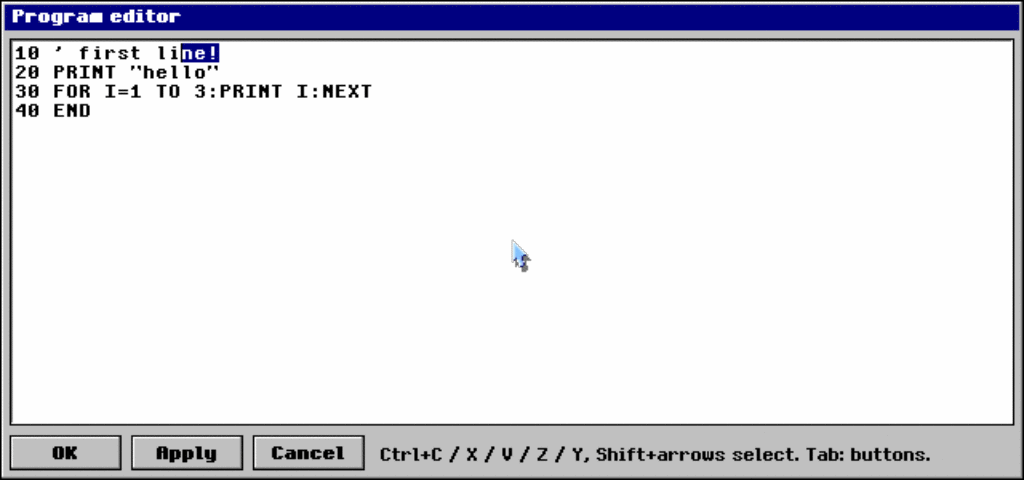
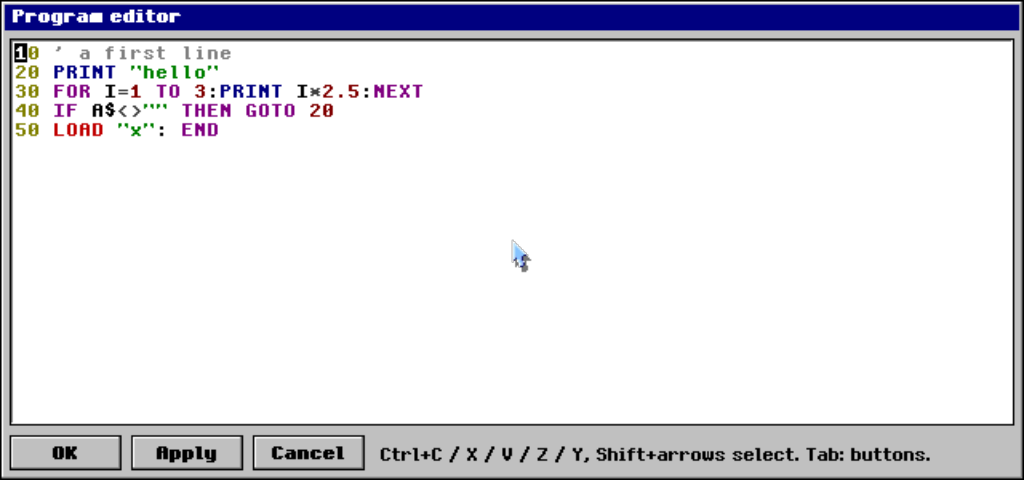
Notepad demo fix, and updated screenshots, by Claude Code

Changed region(s): [[0.0, 0.0625, 0.4062, 0.2812]]

diff --git a/synhltest1.c b/synhltest1.c
@@ -137,6 +137,9 @@ static void file( const char* path ) {
         ++no;
         char where[300];
         snprintf( where, sizeof(where), "%s:%d", path, no );
+        if ( strstr( path, "demos/" ) != 0 && line[0] != '\0' ) {            // a demo is a numbered listing: a line without a number would make LOAD fail ("Line number missing in program file")
+            CHECK( line[0] >= '0' && line[0] <= '9', "%s: the line has no line number: %s", where, line );
+        }
         compare_line( line, where );
     }
     fclose( f );

diff --git a/SESSION.md b/SESSION.md
@@ -18,6 +18,7 @@ Read this first when resuming; details are in `docs/` (start with `docs/README.m
 - **No locks on the layer memory** (owner's design, restated 2026-11-01): the screen thread reads the layers and text screens without synchronization; the content may be torn, but nothing may be freed / reallocated, indices must stay bounded, and nothing may be *lost*: shared state is owned by one thread and handed over by atomic words (GCC `__atomic` builtins, no mutex, no pthreads). Rules: `docs/display-engine.md`, "Threading". Don't add mutexes around layer memory.
 
 ## Repo state
+- **README screenshots of `EDIT WINDOW` and the notepad redone** (2026-11-06, owner's request; not committed yet). **Bug fixed:** `demos/notepad.bas` (committed in `b529bb3`) had two lines without numbers and did not load; fixed (621, 622), `synhltest1` now checks the numbering of all demos.
 - **Paste status message** (2026-11-06, owner's question about pasting lines whose numbers exist; not committed yet): pasting numbered lines in the full-screen editor shows `Pasted N lines: x new, y replaced, z unchanged` (before: no feedback when nothing changed). `scrtest1` 176.
 - **Roadmap item 69, block caret in `UI EDIT`** (2026-11-06, owner's idea in `ideas-and-suggestions.txt`; done, committed as `b529bb3`, tested by the owner 2026-11-06): blinking character-wide block (500 ms, solid after input) with the character inverted; text fields keep the thin line. `uitest1` 303.
 - **Roadmap item 68, colors in the UI and syntax highlighting (all five steps, 2026-11-06, owner: "Go ahead with roadmap item 68 ... going with your suggestions. Don't stop in-between"; committed as `b529bb3`, tested by the owner 2026-11-06):** `UI COLOR id,fg[,bg]` (palette entries, -1 theme, 0 refused), `UI THEME n` (presets 0 classic / 1 dark / 2 high contrast into the entries 224..255 of layer 3; `UI("THEME")`), `synhl.[ch]` (BASIC lexer on the tokenizer's own scanners + `keyword_hlclass()`; `synhltest1` compares all lines of the demos and libraries with `detokenize_line_hl()`: 18680 checks), `UI SYNTAX id,0|1`, `UI SYNTAXCOLOR slot,c`, `UI HILITE id,a$` (program-given classes that move with the text), queries `UI("SYNTAX"|"COLOR"|"SYNTAXCOLOR")`; `EDIT WINDOW` is colored (`ENGINE1999_UITHEME`), `demos/notepad.bas` has Syntax / Theme buttons. Bug found: `LIST` colored `<=` `>=` `<>` `&` as statements (now operators). Tests: `uitest1` 297, `vmtest1` 1388, `synhltest1`; checked in the window under Xvfb (screenshots, classic and dark). The entries 240..255 of layer 3 belong to the UI now. Open: other modes (INI, comment character), colored runs in labels.

diff --git a/HistoryLog-Claude.md b/HistoryLog-Claude.md
@@ -13,6 +13,10 @@ Related files: `SESSION.md` (current state), `docs/roadmap.md` (open work), `doc
 
 ## Pending (not committed yet)
 
+### README screenshot of EDIT WINDOW (2026-11-06, owner's request)
+- `docs/images/editor-window.png` replaced by a new screenshot (1024 x 480, the real window under Xvfb, a program typed at the prompt and `EDIT WINDOW` opened by an XTest key injector kept in the scratchpad): syntax colors and the block caret. README text and caption mention the colors and `ENGINE1999_UITHEME`. 
+- `docs/images/notepad.png` redone the same way (owner: "redo notepad.png too"): the notepad with a BASIC program, Syntax: BASIC on, the new Syntax / Theme buttons. **Bug found by it and fixed:** my earlier edit of `demos/notepad.bas` (item 68) had added two lines without line numbers (`IF B=25 ...`, `IF B=26 ...`), so `LOAD` of the demo failed with "Line number missing in program file" (committed in `b529bb3`; the notepad did not start at all). They are lines 621 and 622 now; `synhltest1` checks that every line of a demo or library has a line number (37346 checks, 0 failures). No processes left.
+
 ### Status message after pasting numbered lines (2026-11-06, owner's question: "nothing happened" when pasting lines whose numbers exist)
 - `fulledit.c` `ed_paste()`: counts the pasted numbered lines as new / replaced / unchanged (stored line before and after each entry, `ed_progbody()`) and shows `Pasted N lines: 1 new, 1 replaced, 1 unchanged` in the status line; a refused line keeps its own error message. The behavior (same number = replaced) is unchanged and was confirmed by the test.
 - `scrtest1` 176 (3 new: unchanged, new + replaced with the new text, new + unchanged; valgrind clean); `contest1` 0 failures; `docs/display-engine.md`.

diff --git a/README.md b/README.md
@@ -52,11 +52,11 @@ Select text with Shift and the cursor keys or the mouse, copy, cut and paste wit
 
 ![The full-screen editor with a selection](docs/images/editor-selection.png)
 
-`EDIT WINDOW` edits the program in a window in the UI toolkit, and `demos/notepad.bas` shows the same editor widget in a small text editor written in BASIC:
+`EDIT WINDOW` edits the program in a window in the UI toolkit, with the same syntax colors as `LIST` (`ENGINE1999_UITHEME=dark` gives a dark theme), and `demos/notepad.bas` shows the same editor widget in a small text editor written in BASIC:
 
-![The editor window opened by EDIT WINDOW](docs/images/editor-window.png)
+![The editor window opened by EDIT WINDOW, with syntax colors](docs/images/editor-window.png)
 
-![Notepad, a text editor written in BASIC](docs/images/notepad.png)
+![Notepad, a text editor written in BASIC, with the BASIC syntax colors switched on](docs/images/notepad.png)
 
 The sprite and tile editor, itself a BASIC program built on the UI statements, imports and exports BMP files:
 
